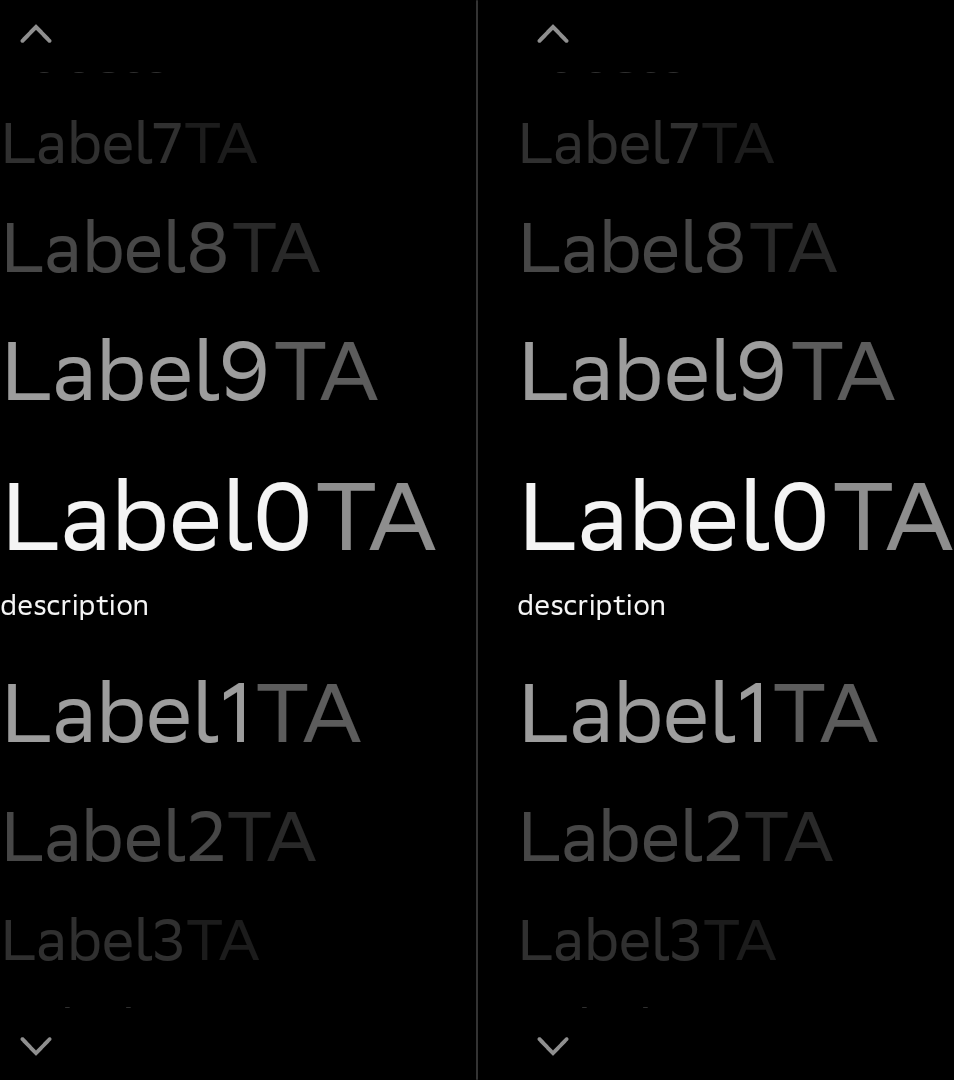
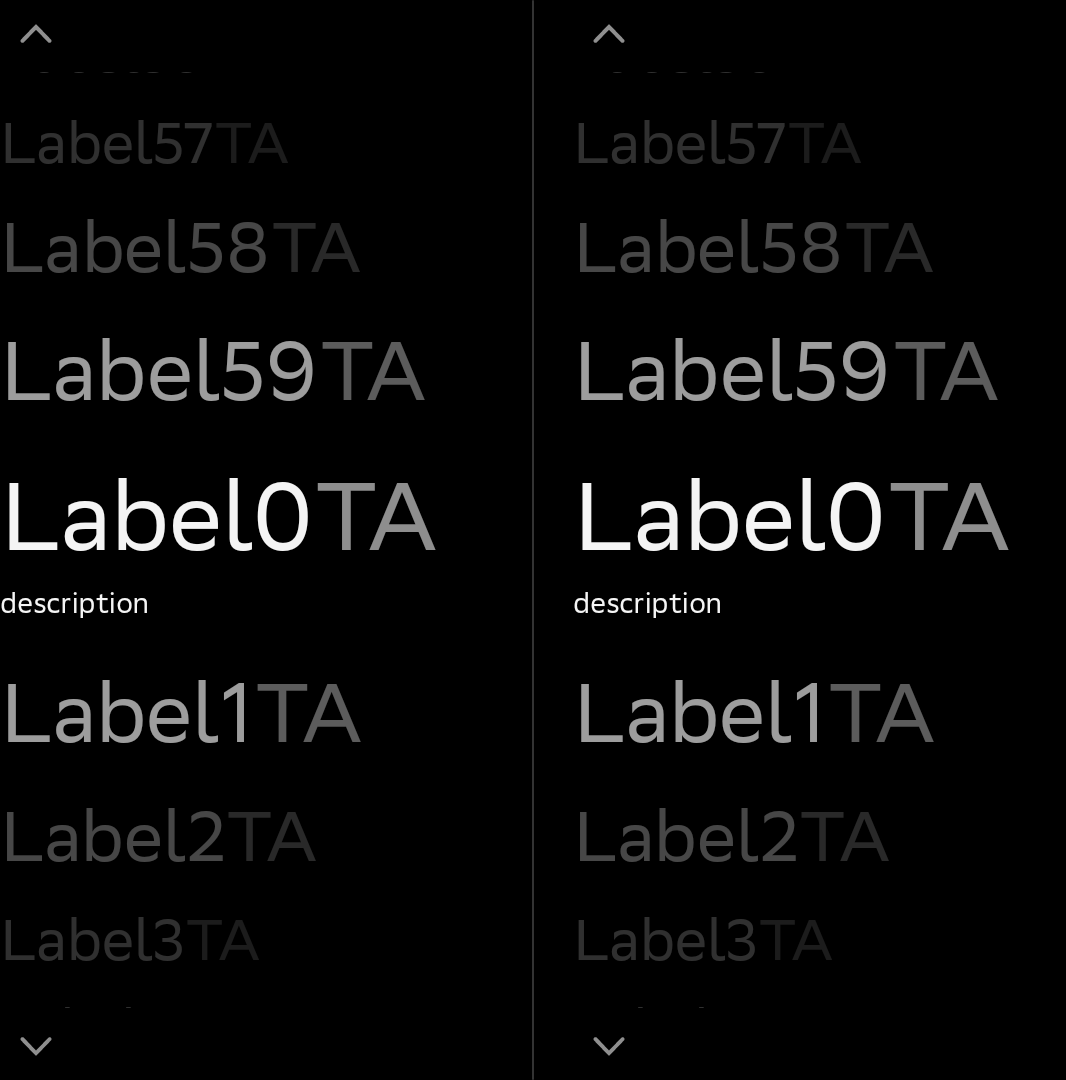
fix(sdds-acore/uikit): Wheel infinity scroll was fixed.

diff --git a/sdds-core/uikit/src/main/kotlin/com/sdds/uikit/internal/wheel/WheelListView.kt b/sdds-core/uikit/src/main/kotlin/com/sdds/uikit/internal/wheel/WheelListView.kt
@@ -5,10 +5,12 @@ import android.graphics.Canvas
 import android.graphics.Color
 import android.graphics.Paint
 import android.graphics.Rect
+import android.text.TextUtils
 import android.view.Gravity
 import android.view.View
 import android.view.ViewGroup
 import android.widget.FrameLayout
+import android.widget.LinearLayout
 import androidx.annotation.StyleRes
 import androidx.core.view.children
 import androidx.core.view.doOnLayout
@@ -63,6 +65,8 @@ internal class WheelListView(context: Context) : ListView(context) {
     private var _initialPositionSet: Boolean = false
     private var _savedDescendantFocusability: Int = descendantFocusability
     private var _reindexingFocusGuard: Boolean = false
+    private var pendingRefresh: Boolean = false
+    private var estimatedMaxWidth = -1
 
     var itemsFocusable: Boolean
         get() = _itemsFocusable
@@ -139,8 +143,9 @@ internal class WheelListView(context: Context) : ListView(context) {
     val itemHeight: Int
         get() = estimateChildHeight()
 
-    val estimateChild: View?
-        get() = getChildAt(0) ?: adapter?.onCreateViewHolder(this, 0)?.itemView
+    private val estimateChild: View? by lazy {
+        getChildAt(0) ?: adapter?.onCreateViewHolder(this, 0)?.itemView
+    }
 
     init {
         adapter = _wheelItemAdapter
@@ -160,12 +165,13 @@ internal class WheelListView(context: Context) : ListView(context) {
     }
 
     fun setData(items: List<WheelItemEntry>) {
+        estimatedMaxWidth = -1
         _wheelItemAdapter.submitList(items) {
             post { refresh() }
         }
         doOnLayout {
-            val itemHeight = estimateChildHeight() - entryMinSpacing
-            val edgeOffset = (it.measuredHeight - itemHeight) / 2
+            val itemHeight = estimateChildHeight()
+            val edgeOffset = (it.measuredHeight - itemHeight) / 2 + entryMinSpacing
             it.updatePadding(top = edgeOffset, bottom = edgeOffset)
         }
     }
@@ -199,7 +205,8 @@ internal class WheelListView(context: Context) : ListView(context) {
     }
 
     fun setSelectedEntry(entryId: Long, animate: Boolean): Boolean {
-        val position = _wheelItemAdapter.getItemPosition(entryId)
+        val currentPosition = getSelectedPosition().takeIf { it != NO_POSITION } ?: 0
+        val position = _wheelItemAdapter.getItemPosition(entryId, currentPosition)
         if (position == NO_POSITION) return false
         return setSelectedPosition(position, animate)
     }
@@ -225,17 +232,38 @@ internal class WheelListView(context: Context) : ListView(context) {
     }
 
     fun snap(smooth: Boolean = true, positionProvider: (Int) -> Int): Boolean {
-        val centerView = findCenterChild() ?: return false
+        val centerView = findCenterChild()
         val currentPosition = getSelectedPosition()
         val nextPosition = positionProvider(currentPosition)
             .takeIf { it in 0 until _wheelItemAdapter.itemCount }
-            ?: return false
+
+        if (centerView == null || nextPosition == null) return false
+
         val nextView = _layoutManager.findViewByPosition(nextPosition)
+
+        if (!smooth && nextView == null) {
+            _layoutManager.scrollToPositionWithOffset(nextPosition, 0)
+            doOnPreDraw {
+                val snapView = findCenterChild()
+                if (snapView != null) {
+                    val snapDistance =
+                        _wheelSnapHelper.calculateDistanceToFinalSnap(_layoutManager, snapView)
+                            ?: intArrayOf(0, 0)
+                    if (snapDistance[1] != 0) {
+                        scrollBy(0, snapDistance[1])
+                    }
+                }
+                updateChildTransforms()
+            }
+            return true
+        }
+
         val snapDistance = if (nextView == null) {
             intArrayOf(0, (nextPosition - currentPosition) * centerView.measuredHeight)
         } else {
             _wheelSnapHelper.calculateDistanceToFinalSnap(_layoutManager, nextView) ?: intArrayOf(0, 0)
         }
+
         if (smooth) {
             smoothScrollBy(0, snapDistance[1])
         } else {
@@ -276,6 +304,8 @@ internal class WheelListView(context: Context) : ListView(context) {
     }
 
     private fun refresh() {
+        if (pendingRefresh) return
+        pendingRefresh = true
         doOnPreDraw {
             if (infiniteScrollEnabled) {
                 applyInfiniteScroll(false)
@@ -284,8 +314,24 @@ internal class WheelListView(context: Context) : ListView(context) {
                 setSelectedPosition(position, false)
                 _initialPositionSet = true
             }
+            pendingRefresh = false
         }
         _wheelItemAdapter.forceRefreshHolders()
+    }
+
+    private fun estimateMaxChildWidth(): Int {
+        if (estimatedMaxWidth != -1) return estimatedMaxWidth
+        val child = estimateChild as? WheelListItemView ?: return 0
+        val maxTextLength = _wheelItemAdapter.currentList.maxOf { getItemTextLength(it) }
+
+        return _wheelItemAdapter.currentList
+            .filter { getItemTextLength(it) == maxTextLength }
+            .maxOf { child.estimateWidth(it) }
+            .also { estimatedMaxWidth = it }
+    }
+
+    private fun getItemTextLength(item: WheelItemEntry): Int {
+        return item.title.length + (item.textAfter?.length ?: 0)
     }
 
     private fun estimateChildHeight(
@@ -361,7 +407,21 @@ internal class WheelListView(context: Context) : ListView(context) {
         } else {
             heightSpec
         }
-        super.onMeasure(widthSpec, newHeightSpec)
+
+        val specWidth = MeasureSpec.getSize(widthSpec)
+        val newWidthSpec = if (estimateChild != null) {
+            val estimatedMaxWidth = estimateMaxChildWidth()
+            val maxWidth = when (MeasureSpec.getMode(widthSpec)) {
+                MeasureSpec.EXACTLY -> specWidth
+                MeasureSpec.AT_MOST -> estimatedMaxWidth
+                else -> minOf(estimatedMaxWidth, specWidth)
+            }
+            MeasureSpec.makeMeasureSpec(maxWidth, MeasureSpec.EXACTLY)
+        } else {
+            widthSpec
+        }
+
+        super.onMeasure(newWidthSpec, newHeightSpec)
     }
 
     private fun getMaxDistance(): Float {
@@ -561,8 +621,19 @@ internal class WheelListView(context: Context) : ListView(context) {
             return if (infiniteScrollEnabled) realItemCount * INFINITY_MULTIPLIER else realItemCount
         }
 
-        fun getItemPosition(entryId: Long): Int {
-            return _items.indexOfFirst { it.id == entryId }
+        fun getItemPosition(entryId: Long, currentAdapterPosition: Int): Int {
+            val baseIndex = _items.indexOfFirst { it.id == entryId }
+            val realCount = realItemCount
+            if (baseIndex == NO_POSITION || realCount == 0) return NO_POSITION
+
+            if (!infiniteScrollEnabled) return baseIndex
+
+            val safeCurrent = currentAdapterPosition.coerceAtLeast(0)
+            val currentBand = safeCurrent / realCount
+
+            val candidate = currentBand * realCount + baseIndex
+            val maxIndex = itemCount - 1
+            return candidate.coerceIn(0, maxIndex)
         }
 
         fun submitList(list: List<WheelItemEntry>, commitCallback: Runnable?) {
@@ -740,15 +811,49 @@ internal class WheelListView(context: Context) : ListView(context) {
     internal class WheelListItemView(context: Context) : FrameLayout(context) {
 
         private var _focusLocked: Boolean = false
+        private val _itemTitleView = TextView(context)
+            .apply {
+                id = R.id.sd_wheel_item_title
+                isDuplicateParentStateEnabled = true
+                isFocusable = false
+                maxLines = 1
+                ellipsize = TextUtils.TruncateAt.END
+            }
+        private val _itemTextAfterView = TextView(context)
+            .apply {
+                id = R.id.sd_wheel_item_text_after
+                isDuplicateParentStateEnabled = true
+                isFocusable = false
+                maxLines = 1
+                ellipsize = TextUtils.TruncateAt.END
+            }
+
+        private val _container: LinearLayout = LinearLayout(context)
+            .apply {
+                id = R.id.sd_wheel_item
+                isDuplicateParentStateEnabled = true
+                isFocusable = false
+                gravity = Gravity.CENTER
+            }
 
         init {
-            inflate(context, R.layout.sd_layout_wheel_item, this)
+            _container.addView(_itemTitleView)
+            _container.addView(_itemTextAfterView)
+            addView(_container, LayoutParams(LayoutParams.WRAP_CONTENT, LayoutParams.MATCH_PARENT))
             clipToPadding = false
             clipChildren = false
         }
 
         fun setFocusLock(lock: Boolean) {
             _focusLocked = lock
+        }
+
+        fun estimateWidth(entry: WheelItemEntry): Int {
+            val titleWidth = _itemTitleView.paint.measureText(entry.title, 0, entry.title.length)
+            val textAfterWidth = entry.textAfter?.let {
+                _itemTextAfterView.paint.measureText(it, 0, it.length)
+            } ?: 0f
+            return (titleWidth + textAfterWidth).roundToInt()
         }
 
         override fun onCreateDrawableState(extraSpace: Int): IntArray {
@@ -763,6 +868,6 @@ internal class WheelListView(context: Context) : ListView(context) {
 
     private companion object {
         const val DRAW_DEBUG = false
-        const val INFINITY_MULTIPLIER: Int = 40
+        const val INFINITY_MULTIPLIER: Int = 20
     }
 }

diff --git a/sdds-core/uikit/src/main/kotlin/com/sdds/uikit/internal/wheel/WheelItemView.kt b/sdds-core/uikit/src/main/kotlin/com/sdds/uikit/internal/wheel/WheelItemView.kt
@@ -18,6 +18,7 @@ import androidx.core.view.isVisible
 import androidx.core.view.updatePadding
 import androidx.recyclerview.widget.RecyclerView
 import androidx.recyclerview.widget.RecyclerView.OnScrollListener
+import androidx.recyclerview.widget.RecyclerView.SCROLL_STATE_IDLE
 import com.sdds.uikit.ImageView
 import com.sdds.uikit.TextView
 import com.sdds.uikit.Wheel
@@ -45,9 +46,10 @@ internal class WheelItemView(context: Context) : ViewGroup(context) {
             object : OnScrollListener() {
                 override fun onScrollStateChanged(recyclerView: RecyclerView, newState: Int) {
                     super.onScrollStateChanged(recyclerView, newState)
-                    if (newState == RecyclerView.SCROLL_STATE_IDLE && !recyclerView.isPressed) {
+                    if (newState == SCROLL_STATE_IDLE && !recyclerView.isPressed) {
                         val entry = getSelectedEntry() ?: return
                         if (entry != _currentSelectedEntry) {
+                            updateSelectorBounds()
                             _currentSelectedEntry = entry
                             _entrySelectedListener?.onEntrySelected(this@WheelItemView.id, entry)
                         }
@@ -110,6 +112,7 @@ internal class WheelItemView(context: Context) : ViewGroup(context) {
             if (_listViewHasFocus != listViewHasFocus) {
                 _listViewHasFocus = listViewHasFocus
                 _descriptionView.isActivated = listViewHasFocus
+                updateSelectorBounds()
                 invalidate()
             }
         }
@@ -422,7 +425,12 @@ internal class WheelItemView(context: Context) : ViewGroup(context) {
         layoutChild(_downButton, top)
         layoutChild(_descriptionView, 0)
 
-        val estimateChild = _listView.estimateChild
+        updateSelectorBounds()
+    }
+
+    private fun updateSelectorBounds() {
+        if (_listView.scrollState != SCROLL_STATE_IDLE) return
+        val estimateChild = _listView.findCenterChild()
         if (estimateChild != null) {
             val spacing = entryMinSpacing / 2
             selectorBounds.set(
@@ -438,7 +446,10 @@ internal class WheelItemView(context: Context) : ViewGroup(context) {
             selectorBounds.bottom += SELECTOR_SAFE_PADDING
         }
         selectorBounds.offsetTo(selectorBounds.left, (measuredHeight - selectorBounds.height()) / 2)
-        _selectorDrawable.bounds = selectorBounds
+        if (_selectorDrawable.bounds != selectorBounds) {
+            _selectorDrawable.bounds = selectorBounds
+            invalidate()
+        }
     }
 
     private fun layoutChild(child: View, top: Int): Int {

diff --git a/sdds-core/testing/src/main/kotlin/com/sdds/testing/vs/wheel/WheelFactory.kt b/sdds-core/testing/src/main/kotlin/com/sdds/testing/vs/wheel/WheelFactory.kt
@@ -1,6 +1,7 @@
 package com.sdds.testing.vs.wheel
 
 import android.content.Context
+import androidx.core.view.doOnPreDraw
 import com.sdds.testing.vs.styleWrapper
 import com.sdds.uikit.Wheel
 
@@ -20,9 +21,9 @@ fun wheel(
     return Wheel(context.styleWrapper(style))
         .applyState(state)
         .apply {
-            post {
+            doOnPreDraw {
                 repeat(state.wheelCount) {
-                    setSelectedEntry(it, 0)
+                    setSelectedEntry(it, 0, true)
                 }
             }
         }
@@ -42,7 +43,7 @@ fun Wheel.applyState(state: WheelUiState): Wheel = apply {
         setData(
             it,
             mutableListOf<Wheel.WheelItemEntry>().apply {
-                repeat(10) { index ->
+                repeat(60) { index ->
                     add(
                         Wheel.WheelItemEntry(
                             id = index.toLong(),

diff --git a/sdds-core/testing/src/main/kotlin/com/sdds/testing/vs/wheel/WheelUiState.kt b/sdds-core/testing/src/main/kotlin/com/sdds/testing/vs/wheel/WheelUiState.kt
@@ -27,7 +27,7 @@ data class WheelUiState(
     val wheelCount: Int = 2,
     val visibleItemsCount: Int = 5,
     val separatorType: WheelSeparatorType = WheelSeparatorType.DOTS,
-    val hasInfiniteScroll: Boolean = false,
+    val hasInfiniteScroll: Boolean = true,
     val controlsDisplayMode: WheelControlsDisplayMode = WheelControlsDisplayMode.ALWAYS,
 ) : UiState {
     override fun updateVariant(appearance: String, variant: String): UiState {
